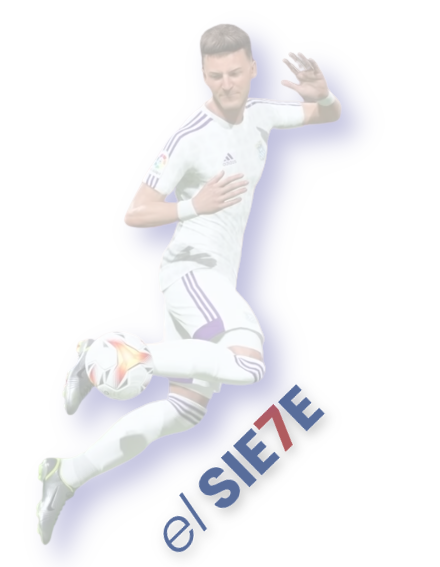
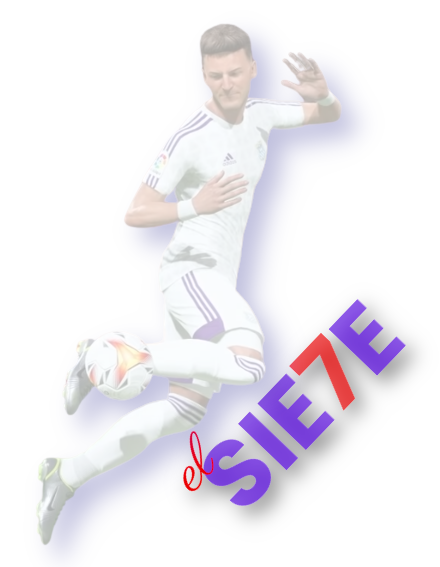
Background fixed

Changed region(s): [[0.3545, 0.5097, 0.9455, 0.9894]]

diff --git a/src/index.css b/src/index.css
@@ -42,7 +42,7 @@ main {
         url(../public/right25BGNew.png);
     background-repeat: no-repeat, no-repeat;
     background-size: 50%, 40%;
-    background-position: -50%, 90% bottom;
+    background-position: -50%, 95% bottom;
 }
 
 main.welcome {
